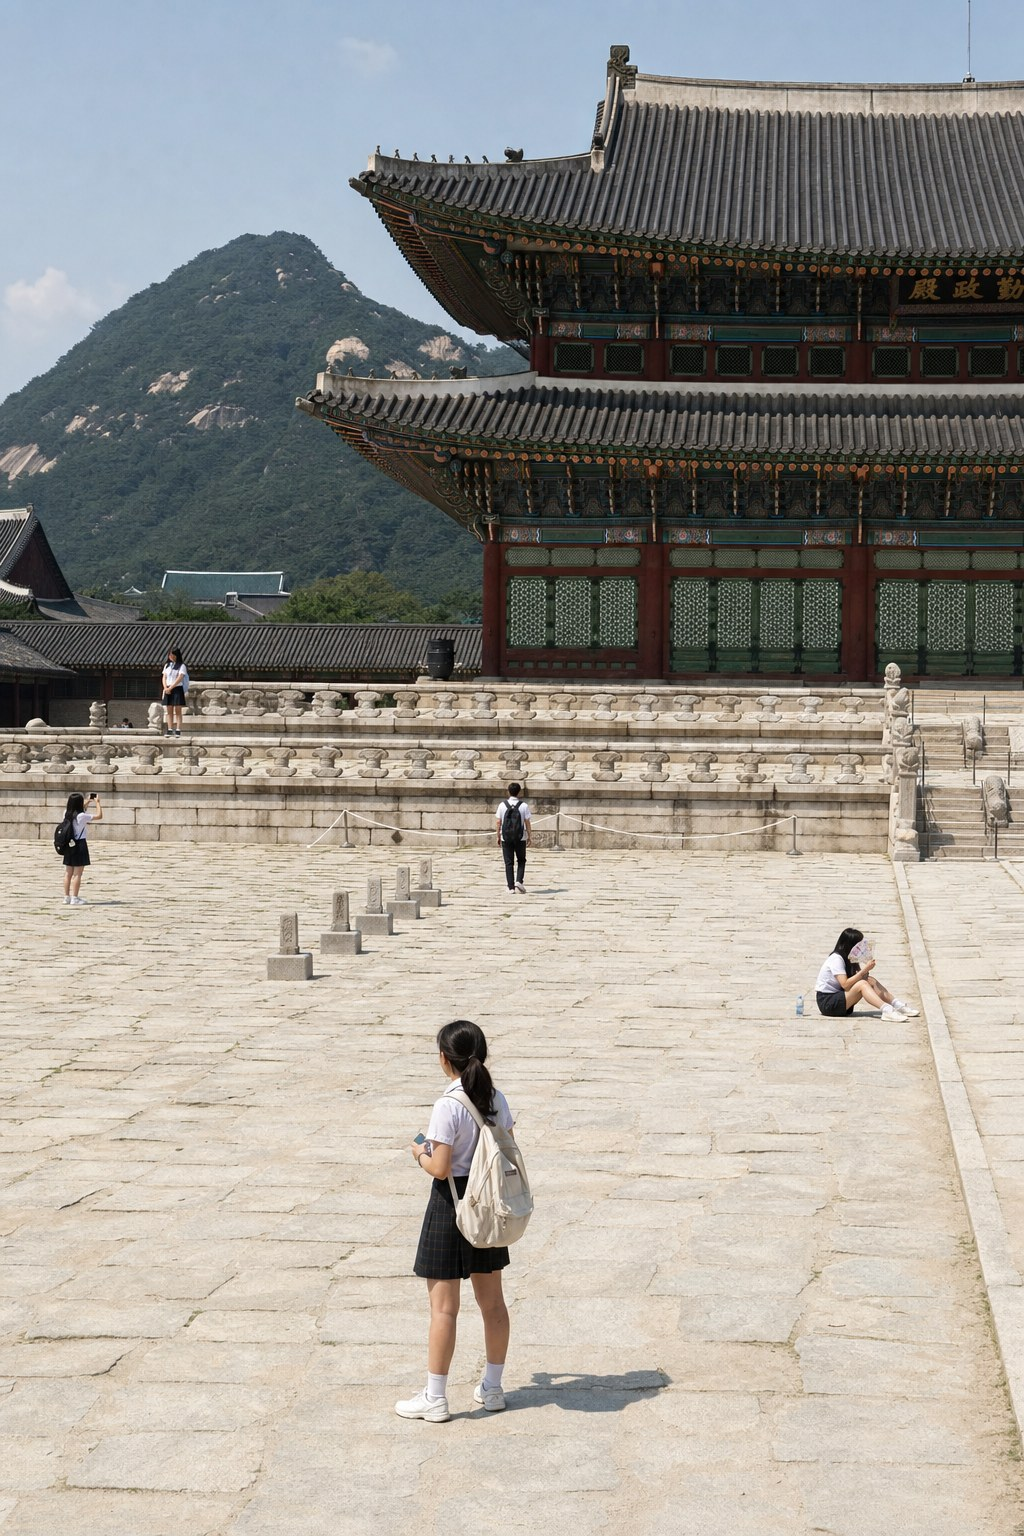
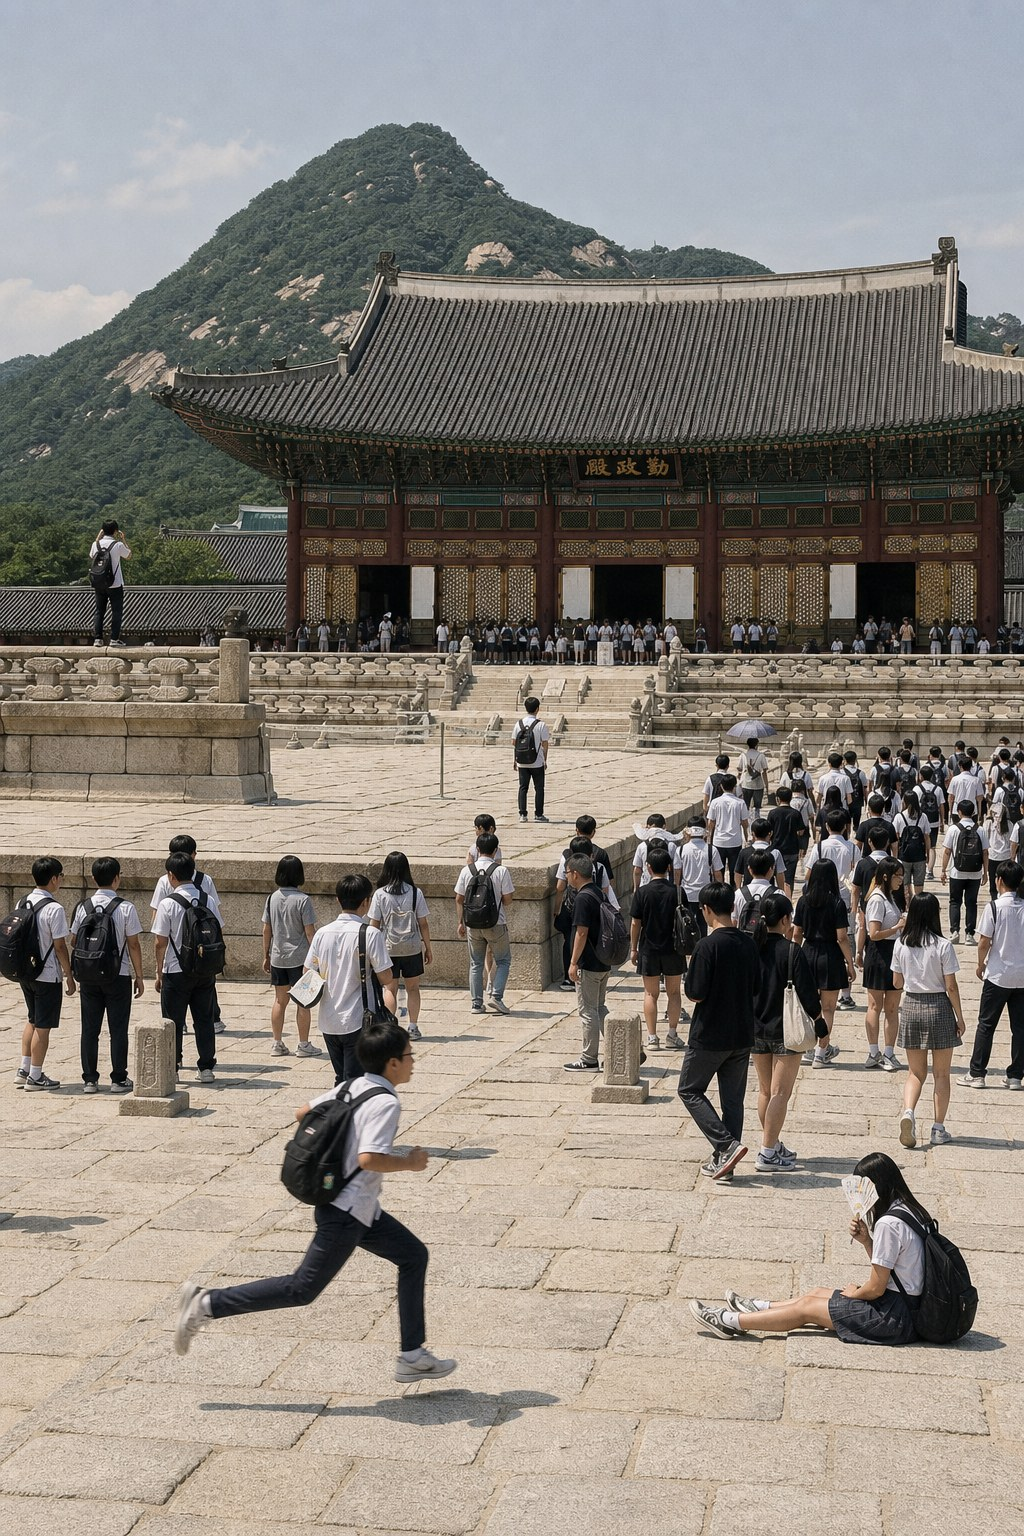
휴게소·경복궁·숙소 전면 재구성
- 인파를 실제 수학여행 규모로 되돌리고, 찾기 대상을 '위치가 다른 사람'이 아니라
  '자세가 확연히 다른 사람'으로 재선정해 붐벼도 구분되게 함
- 휴게소: '혼자 다니는 학생'을 위험에서 제외(중고등은 개인행동이 위험이 아님),
  전광판에 집합 13:40 / 현재 13:35를 띄워 집합 지연 판단 근거 제공,
  버스 후방 사각지대·차도 위 촬영으로 교체
- 경복궁: 개인행동 대신 돌바닥 질주로 교체
- 숙소: 밝고 넓게 재구성하고 출입문이 보이도록 함, 몰래 촬영을 사진 속 찾기 대상으로 추가(5개)
- 중복된 촬영 딜레마 카드 제거

diff --git a/index.html b/index.html
@@ -449,21 +449,21 @@ body.debug .egg{outline:3px dotted rgba(91,200,176,.95);background:rgba(91,200,1
 <section class="screen" id="scr-s2">
   <div class="stage-head">
     <div class="stage-label">STAGE 2 — 휴게소</div>
-    <div class="stage-title">집합 시간 15분 전</div>
-    <div class="stage-desc">출발 시간이 다가온다. 위험하게 행동하는 4명을 제한 시간 안에 찾아내라.</div>
+    <div class="stage-title">집합 5분 전</div>
+    <div class="stage-desc">전광판에 집합 시간이 떠 있다. 위험하게 행동하는 4명을 제한 시간 안에 찾아내라.</div>
   </div>
   <div class="timerbar"><b id="s2-bar"></b></div>
   <div class="trow"><button class="hintbtn" id="s2-hint">💡 힌트 <small>-30점·-10초</small></button><span class="timer-num" id="s2-num">90초</span></div>
   <div class="found-chips" id="s2-chips">
-    <i data-k="cars" data-label="차 사이">?</i><i data-k="hotfood" data-label="뜨거운 음식">?</i><i data-k="alone" data-label="개인행동">?</i><i data-k="late" data-label="집합 지연">?</i>
+    <i data-k="blindspot" data-label="버스 뒤">?</i><i data-k="roadphoto" data-label="차도 사진">?</i><i data-k="hotfood" data-label="뜨거운 음식">?</i><i data-k="late" data-label="집합 지연">?</i>
   </div>
   <div class="scene tall" id="s2-scene">
     <img src="img/rest.jpg" alt="고속도로 휴게소">
-    <button class="hot" data-k="cars"    style="left:56%;top:31%;width:12%;height:9%" aria-label="사진 영역"></button>
-    <button class="hot" data-k="hotfood" style="left:45%;top:46%;width:15%;height:23%" aria-label="사진 영역"></button>
-    <button class="hot" data-k="alone"   style="left:13%;top:45%;width:13%;height:22%" aria-label="사진 영역"></button>
-    <button class="hot" data-k="late"    style="left:17%;top:68%;width:29%;height:26%" aria-label="사진 영역"></button>
-    <button class="egg" data-egg="s2" data-name="휴게소 전광판 시계" style="left:2%;top:6%;width:24%;height:14%" aria-label="사진 영역"></button>
+    <button class="hot" data-k="blindspot" style="left:62%;top:24%;width:10%;height:9%" aria-label="사진 영역"></button>
+    <button class="hot" data-k="roadphoto" style="left:66%;top:34.5%;width:12%;height:15%" aria-label="사진 영역"></button>
+    <button class="hot" data-k="hotfood"   style="left:42%;top:46%;width:18%;height:26%" aria-label="사진 영역"></button>
+    <button class="hot" data-k="late"      style="left:5%;top:62%;width:28%;height:24%" aria-label="사진 영역"></button>
+    <button class="egg" data-egg="s2" data-name="휴게소 전광판" style="left:2%;top:2%;width:32%;height:10%" aria-label="사진 영역"></button>
   </div>
 </section>
 
@@ -477,15 +477,15 @@ body.debug .egg{outline:3px dotted rgba(91,200,176,.95);background:rgba(91,200,1
   <div class="timerbar"><b id="s3-bar"></b></div>
   <div class="trow"><button class="hintbtn" id="s3-hint">💡 힌트 <small>-30점·-10초</small></button><span class="timer-num" id="s3-num">90초</span></div>
   <div class="found-chips" id="s3-chips">
-    <i data-k="climb" data-label="석축 위">?</i><i data-k="rope" data-label="통제선">?</i><i data-k="heat" data-label="온열질환">?</i><i data-k="alone" data-label="개인행동">?</i>
+    <i data-k="climb" data-label="난간 위">?</i><i data-k="rope" data-label="통제선">?</i><i data-k="heat" data-label="온열질환">?</i><i data-k="run" data-label="뛰는 학생">?</i>
   </div>
   <div class="scene tall" id="s3-scene">
     <img src="img/palace.jpg" alt="경복궁 근정전 앞마당">
-    <button class="hot" data-k="climb" style="left:12%;top:41%;width:11%;height:9%" aria-label="사진 영역"></button>
-    <button class="hot" data-k="rope"  style="left:45%;top:51%;width:11%;height:9%" aria-label="사진 영역"></button>
-    <button class="hot" data-k="heat"  style="left:78%;top:60%;width:14%;height:8%" aria-label="사진 영역"></button>
-    <button class="hot" data-k="alone" style="left:39%;top:66%;width:16%;height:24%" aria-label="사진 영역"></button>
-    <button class="egg" data-egg="s3" data-name="근정전 단청 무늬" style="left:86%;top:17%;width:12%;height:6%" aria-label="사진 영역"></button>
+    <button class="hot" data-k="climb" style="left:6%;top:33%;width:9%;height:9%" aria-label="사진 영역"></button>
+    <button class="hot" data-k="rope"  style="left:47%;top:45%;width:9%;height:8%" aria-label="사진 영역"></button>
+    <button class="hot" data-k="heat"  style="left:66%;top:74%;width:30%;height:13%" aria-label="사진 영역"></button>
+    <button class="hot" data-k="run"   style="left:17%;top:66%;width:27%;height:23%" aria-label="사진 영역"></button>
+    <button class="egg" data-egg="s3" data-name="근정전 현판" style="left:55%;top:29%;width:11%;height:3.5%" aria-label="사진 영역"></button>
   </div>
 </section>
 
@@ -519,20 +519,21 @@ body.debug .egg{outline:3px dotted rgba(91,200,176,.95);background:rgba(91,200,1
   <div class="stage-head">
     <div class="stage-label">STAGE 5 — 숙소</div>
     <div class="stage-title">소등 직후</div>
-    <div class="stage-desc">방 안에 불씨가 여럿이다. 위험 요소 4가지를 제한 시간 안에 찾아내라.</div>
+    <div class="stage-desc">방 안에 위험이 여럿이다. 5가지를 제한 시간 안에 찾아내라.</div>
   </div>
   <div class="timerbar"><b id="s5-bar"></b></div>
   <div class="trow"><button class="hintbtn" id="s5-hint">💡 힌트 <small>-30점·-10초</small></button><span class="timer-num" id="s5-num">90초</span></div>
   <div class="found-chips" id="s5-chips">
-    <i data-k="strip" data-label="문어발 멀티탭">?</i><i data-k="iron" data-label="켜둔 고데기">?</i><i data-k="door" data-label="막힌 출입문">?</i><i data-k="ledge" data-label="창틀">?</i>
+    <i data-k="photo" data-label="몰래 촬영">?</i><i data-k="iron" data-label="켜둔 고데기">?</i><i data-k="strip" data-label="문어발 멀티탭">?</i><i data-k="door" data-label="막힌 출입문">?</i><i data-k="ledge" data-label="창틀">?</i>
   </div>
   <div class="scene tall" id="s5-scene">
     <img src="img/room.jpg" alt="숙소 객실 야간">
-    <button class="hot" data-k="strip" style="left:42%;top:78%;width:22%;height:12%" aria-label="사진 영역"></button>
-    <button class="hot" data-k="iron"  style="left:40%;top:53%;width:16%;height:7%" aria-label="사진 영역"></button>
-    <button class="hot" data-k="door"  style="left:78%;top:29%;width:20%;height:29%" aria-label="사진 영역"></button>
-    <button class="hot" data-k="ledge" style="left:55%;top:8%;width:15%;height:19%" aria-label="사진 영역"></button>
-    <button class="egg" data-egg="s5" data-name="창밖 야경" style="left:40%;top:2%;width:13%;height:9%" aria-label="사진 영역"></button>
+    <button class="hot" data-k="photo" style="left:1%;top:31%;width:26%;height:24%" aria-label="사진 영역"></button>
+    <button class="hot" data-k="iron"  style="left:32%;top:56%;width:17%;height:5.5%" aria-label="사진 영역"></button>
+    <button class="hot" data-k="strip" style="left:24%;top:77%;width:30%;height:9%" aria-label="사진 영역"></button>
+    <button class="hot" data-k="door"  style="left:67%;top:39%;width:29%;height:40%" aria-label="사진 영역"></button>
+    <button class="hot" data-k="ledge" style="left:47%;top:25%;width:14%;height:14%" aria-label="사진 영역"></button>
+    <button class="egg" data-egg="s5" data-name="벽시계" style="left:82%;top:16%;width:8%;height:5%" aria-label="사진 영역"></button>
   </div>
 </section>
 
@@ -943,17 +944,6 @@ const EV_DRINK = {
   ],
   why:"취하면 화재나 추락 같은 상황에 대응하지 못한다. 적발되면 전체 일정이 중단된다.",
   rule:"청소년 음주에 예외는 없다 — 거절하고 알린다!"
-};
-const EV_SHOOT = {
-  tag:"선택의 순간", cat:"room",
-  story:"친구가 잠든 룸메이트를 찍어 단톡방에 올리자며 웃는다. \"장난인데 뭐 어때.\"",
-  choices:[
-    {t:"재밌겠다며 같이 찍는다"},
-    {t:"찍지 말라고 말하고, 이미 찍었으면 지우게 한다", ok:true},
-    {t:"못 본 척 자는 척한다"}
-  ],
-  why:"상대가 자고 있어도 동의 없는 촬영과 공유는 학교폭력이자 범죄가 될 수 있다.",
-  rule:"동의 없는 촬영과 유포는 장난이 아니다!"
 };
 /* 깜짝 퀴즈 — 스테이지4에서 출제되지 않은 문항 재활용 */
 function popQuizEvent(next) {
@@ -1368,14 +1358,14 @@ const ST2 = findStage({
   scene:"#s2-scene", chips:"#s2-chips", bar:"#s2-bar", num:"#s2-num", hint:"#s2-hint",
   total:4, cat:"rest",
   targets:{
-    cars:   {title:"주차장을 가로질렀다", why:"대형버스는 사각지대가 넓어 운전석에서 사람이 안 보인다.",
-             rule:"주차장에서는 차 사이로 다니지 않는다!", hint:"버스가 서 있는 주차 구역을 살펴보자"},
-    hotfood:{title:"뜨거운 것을 들고 이동한다", why:"부딪히면 그대로 화상이고, 일정 내내 치료해야 한다.",
+    blindspot:{title:"버스 바로 뒤로 지나갔다", why:"대형버스 운전석에서는 차 바로 뒤가 전혀 보이지 않는다.",
+             rule:"버스 앞뒤로는 지나가지 않는다!", hint:"후진하는 버스 범퍼 가까이에 사람이 있다"},
+    roadphoto:{title:"차도 한가운데서 사진을 찍는다", why:"차가 다니는 길이다. 운전자는 갑자기 멈춰 선 사람을 피할 시간이 없다.",
+             rule:"차가 다니는 곳에서는 멈춰 서지 않는다!", hint:"차선 위에서 휴대폰을 들고 있는 사람이 있다"},
+    hotfood:{title:"뜨거운 것을 들고 이동한다", why:"인파 속에서 부딪히면 그대로 화상이고, 남은 일정 내내 치료해야 한다.",
              rule:"뜨거운 음식은 자리에 앉아서 먹는다!", hint:"김이 오르는 것을 든 사람이 있다"},
-    alone:  {title:"혼자 떨어져 있다", why:"휴게소는 유동 인구가 많아 한 번 놓치면 찾기 어렵다.",
-             rule:"이동 중에는 항상 2명 이상 함께 다닌다!", hint:"무리에서 떨어져 두리번거리는 사람이 있다"},
-    late:   {title:"집합 시간을 잊었다", why:"한 명이 늦으면 전체 일정이 밀리고, 급하게 뛰다 다친다.",
-             rule:"집합 시간 5분 전에는 버스 앞에 선다!", hint:"다들 버스로 향하는데 혼자 앉아 있는 사람이 있다"}
+    late:   {title:"집합 5분 전인데 앉아 있다", why:"한 명이 늦으면 전체 일정이 밀리고, 뒤늦게 뛰어오다 다친다.",
+             rule:"집합 5분 전에는 버스 앞에 선다!", hint:"모두 버스로 향하는데 혼자만 움직이지 않는다"}
   },
   onClear(sec) {
     gainBadge();
@@ -1393,14 +1383,14 @@ const ST3 = findStage({
   scene:"#s3-scene", chips:"#s3-chips", bar:"#s3-bar", num:"#s3-num", hint:"#s3-hint",
   total:4, cat:"park",
   targets:{
-    climb:{title:"석축 위에 올라갔다", why:"문화재 훼손은 처벌 대상이고, 오래된 석축은 미끄러워 추락 위험이 크다.",
-           rule:"문화재 위에는 올라가지 않는다!", hint:"난간 높이보다 위에 서 있는 사람이 있다"},
+    climb:{title:"석난간 위에 올라갔다", why:"문화재 훼손은 처벌 대상이고, 오래된 석축은 모서리가 닳아 미끄럽다.",
+           rule:"문화재 위에는 올라가지 않는다!", hint:"주변 사람들보다 머리 하나가 더 높은 사람이 있다"},
     rope: {title:"통제선을 넘었다", why:"통제선은 유물과 관람객을 함께 지키는 선이다.",
-           rule:"통제선 안쪽으로는 들어가지 않는다!", hint:"바닥에 쳐진 줄 너머를 살펴보자"},
+           rule:"통제선 안쪽으로는 들어가지 않는다!", hint:"아무도 없는 구역에 혼자 서 있는 사람이 있다"},
     heat: {title:"주저앉았다 — 온열질환", why:"땀을 많이 흘린 뒤 어지럽고 기운이 빠지면 온열질환 초기 신호다.",
-           rule:"그늘에서 자주 쉬고 물을 마신다!", hint:"바닥에 앉아 부채질하는 사람이 있다"},
-    alone:{title:"일행과 떨어졌다", why:"넓은 야외에서는 한 번 놓치면 다시 만나기까지 오래 걸린다.",
-           rule:"넓은 곳일수록 일행과 붙어 다닌다!", hint:"넓은 마당 한가운데 혼자 서 있는 사람이 있다"}
+           rule:"그늘에서 자주 쉬고 물을 마신다!", hint:"다들 서 있는데 혼자 바닥에 앉아 부채질하고 있다"},
+    run:  {title:"돌바닥 위를 뛴다", why:"오래된 박석은 높이가 고르지 않아 발을 접질리거나 넘어지기 쉽다.",
+           rule:"돌바닥에서는 뛰지 않는다!", hint:"모두 걷는데 혼자 달리는 자세인 사람이 있다"}
   },
   onClear(sec) {
     gainBadge();
@@ -1511,15 +1501,17 @@ $("#s4-x").addEventListener("click", () => S4.answer(false));
 /* ---------- 스테이지5 숙소 ---------- */
 const ST5 = findStage({
   scene:"#s5-scene", chips:"#s5-chips", bar:"#s5-bar", num:"#s5-num", hint:"#s5-hint",
-  total:4, cat:"room",
+  total:5, cat:"room",
   targets:{
+    photo: {title:"잠든 사람을 몰래 찍는다", why:"상대가 자고 있어도 동의 없는 촬영과 공유는 학교폭력이자 범죄가 될 수 있다.",
+            rule:"동의 없는 촬영과 유포는 장난이 아니다!", hint:"자는 사람 위로 휴대폰을 들이대는 사람이 있다"},
+    iron:  {title:"고데기를 켠 채 뒀다", why:"이불은 불이 잘 붙고 연기가 먼저 차서, 잠든 사이에는 대응이 늦는다.",
+            rule:"고데기는 끄고 식힌 뒤 치운다!", hint:"이불 위에 표시등이 켜진 물건이 놓여 있다"},
     strip: {title:"멀티탭에 몰아서 꽂았다", why:"고데기와 드라이기는 소비전력이 커서 한 멀티탭에 몰면 과열된다.",
             rule:"한 멀티탭에 고열 기기를 몰아 꽂지 않는다!", hint:"바닥에 전선이 얽힌 곳을 살펴보자"},
-    iron:  {title:"고데기를 켠 채 뒀다", why:"이불은 불이 잘 붙고, 연기가 먼저 차서 잠든 사이 대응이 늦는다.",
-            rule:"고데기는 끄고 식힌 뒤 치운다!", hint:"이불 위에 놓인 물건을 확인하자"},
     door:  {title:"출입문을 짐으로 막았다", why:"밤에 불이 나면 이 문이 유일한 탈출로다.",
-            rule:"출입문 앞은 항상 비워 둔다!", hint:"방을 나가는 길이 막혀 있다"},
-    ledge: {title:"창틀에 올라앉았다", why:"밤에는 발밑이 안 보이고, 창틀은 잡을 곳이 없다.",
+            rule:"출입문 앞은 항상 비워 둔다!", hint:"방을 나가는 문 앞을 확인하자"},
+    ledge: {title:"창틀에 올라앉았다", why:"밤에는 발밑이 안 보이고, 창틀은 손으로 잡을 곳이 없다.",
             rule:"창틀과 난간에는 올라가지 않는다!", hint:"창문 쪽 높은 곳을 살펴보자"}
   },
   onClear(sec) {
@@ -1527,10 +1519,10 @@ const ST5 = findStage({
     setTimeout(() => {
       modal({tag:"미션 통과", tagCls:"safe", title:"다섯 번째 인증 획득",
         body:sec + "초를 남기고 정리 완료. 불을 끄고 모두 잠들었다.", btn:"잠들기",
-        cb: () => eventCard(EV_DRINK, () => eventCard(EV_SHOOT, () => {
+        cb: () => eventCard(EV_DRINK, () => {
           sfx.siren(); BGM.play("escape");
           stageIntro("STAGE 6", "새벽 2시", "삐- 삐- 삐- 화재경보가 울렸다. 캄캄한 복도, 손전등 하나로 탈출로를 찾아라.", () => { go("#scr-s6", 5); ST6.start(); });
-        }))});
+        })});
     }, 950);
   },
   restart() { ST5.start(); }
